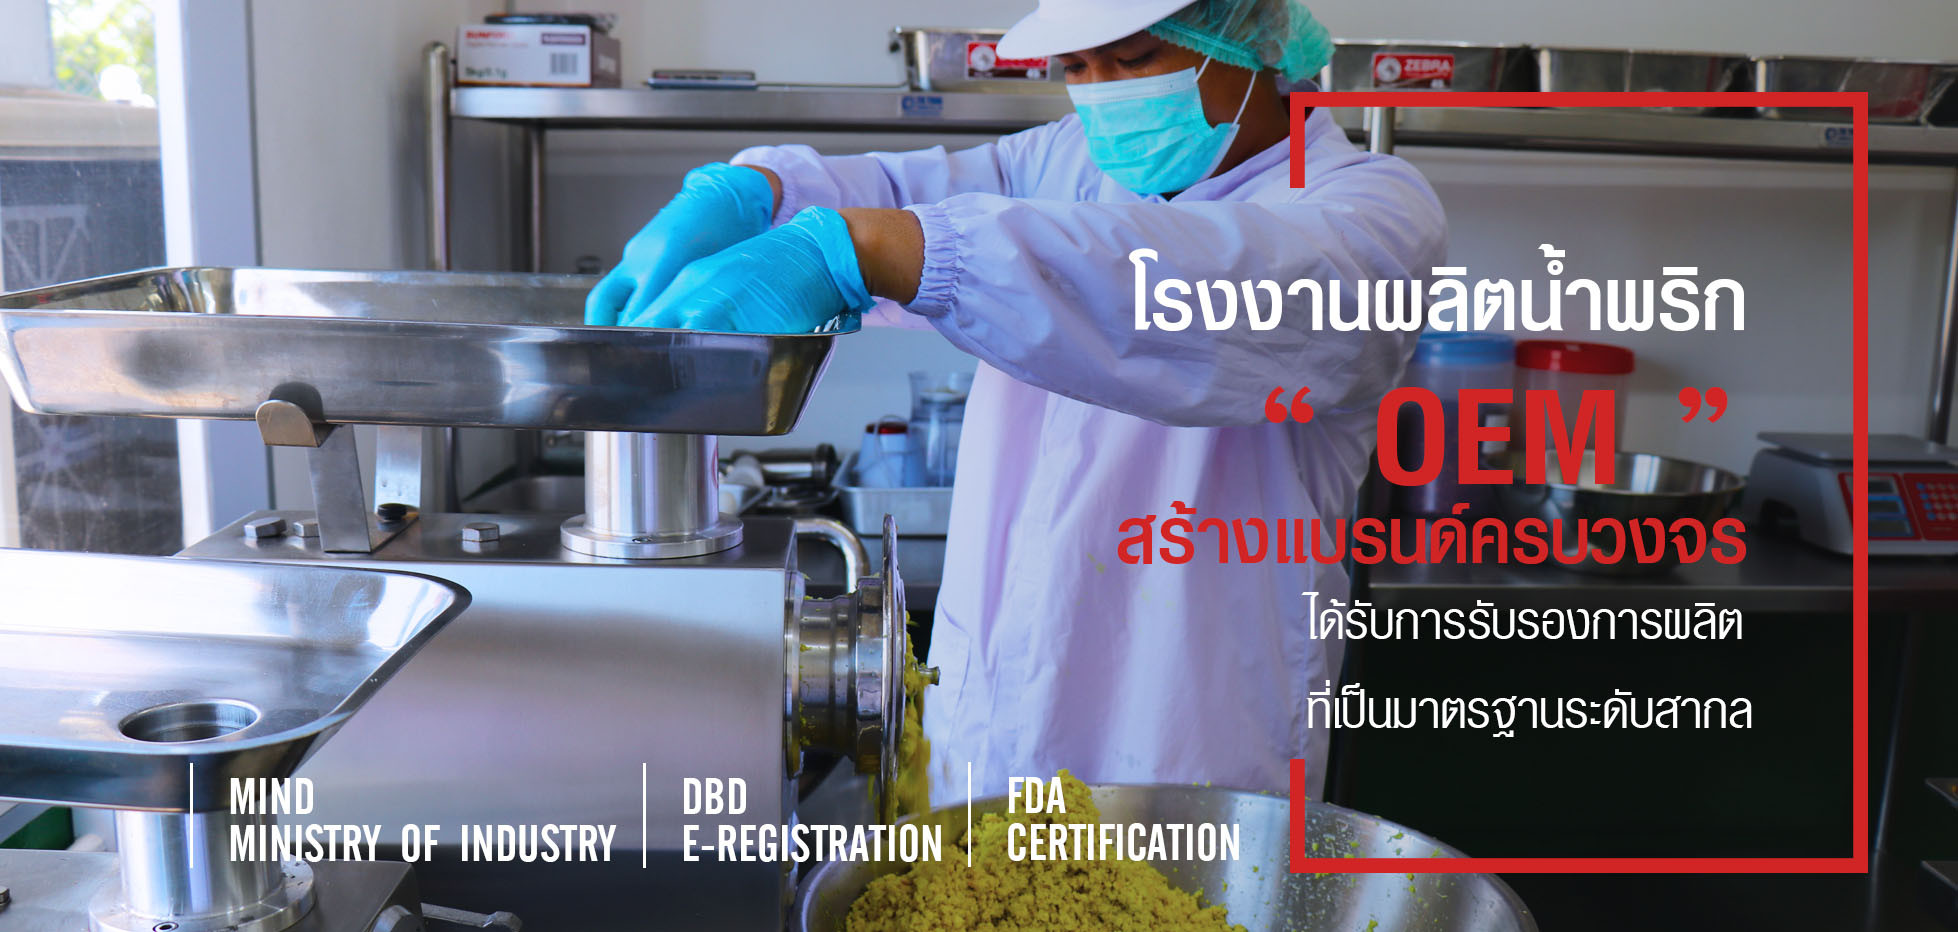
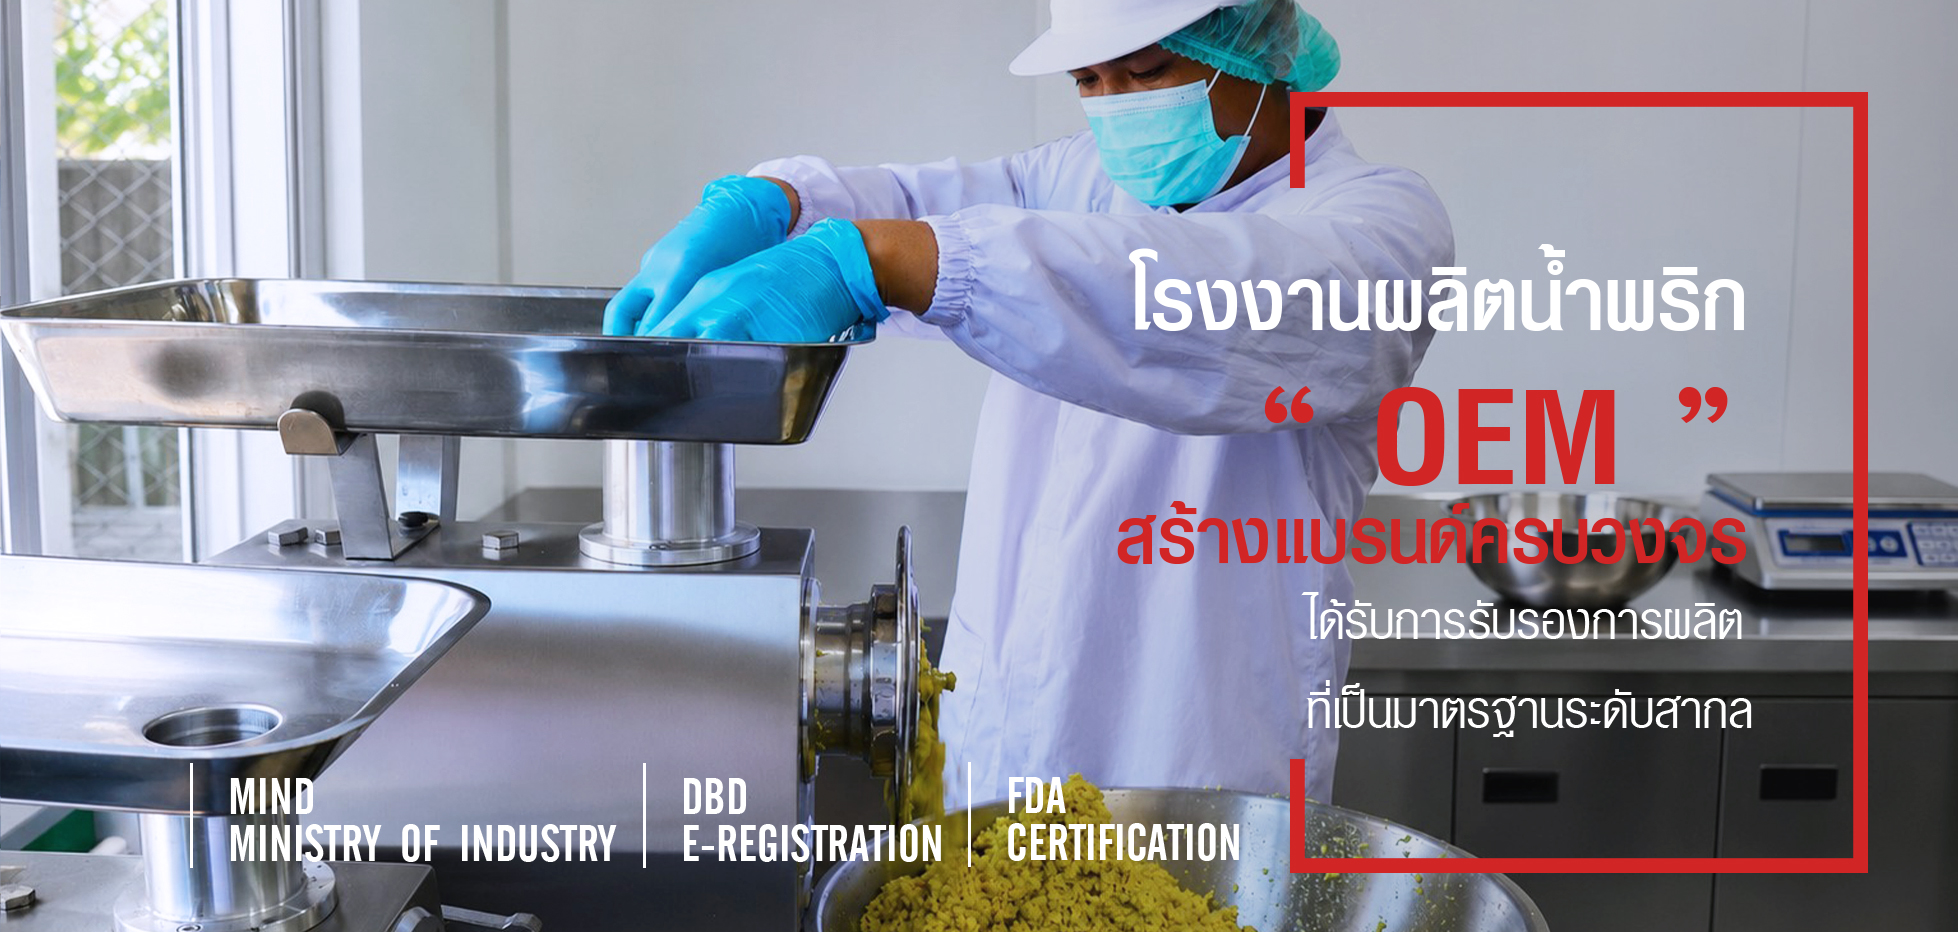
2

diff --git a/app/global.d.ts b/app/global.d.ts
@@ -1,0 +1,1 @@
+declare module "*.css";
